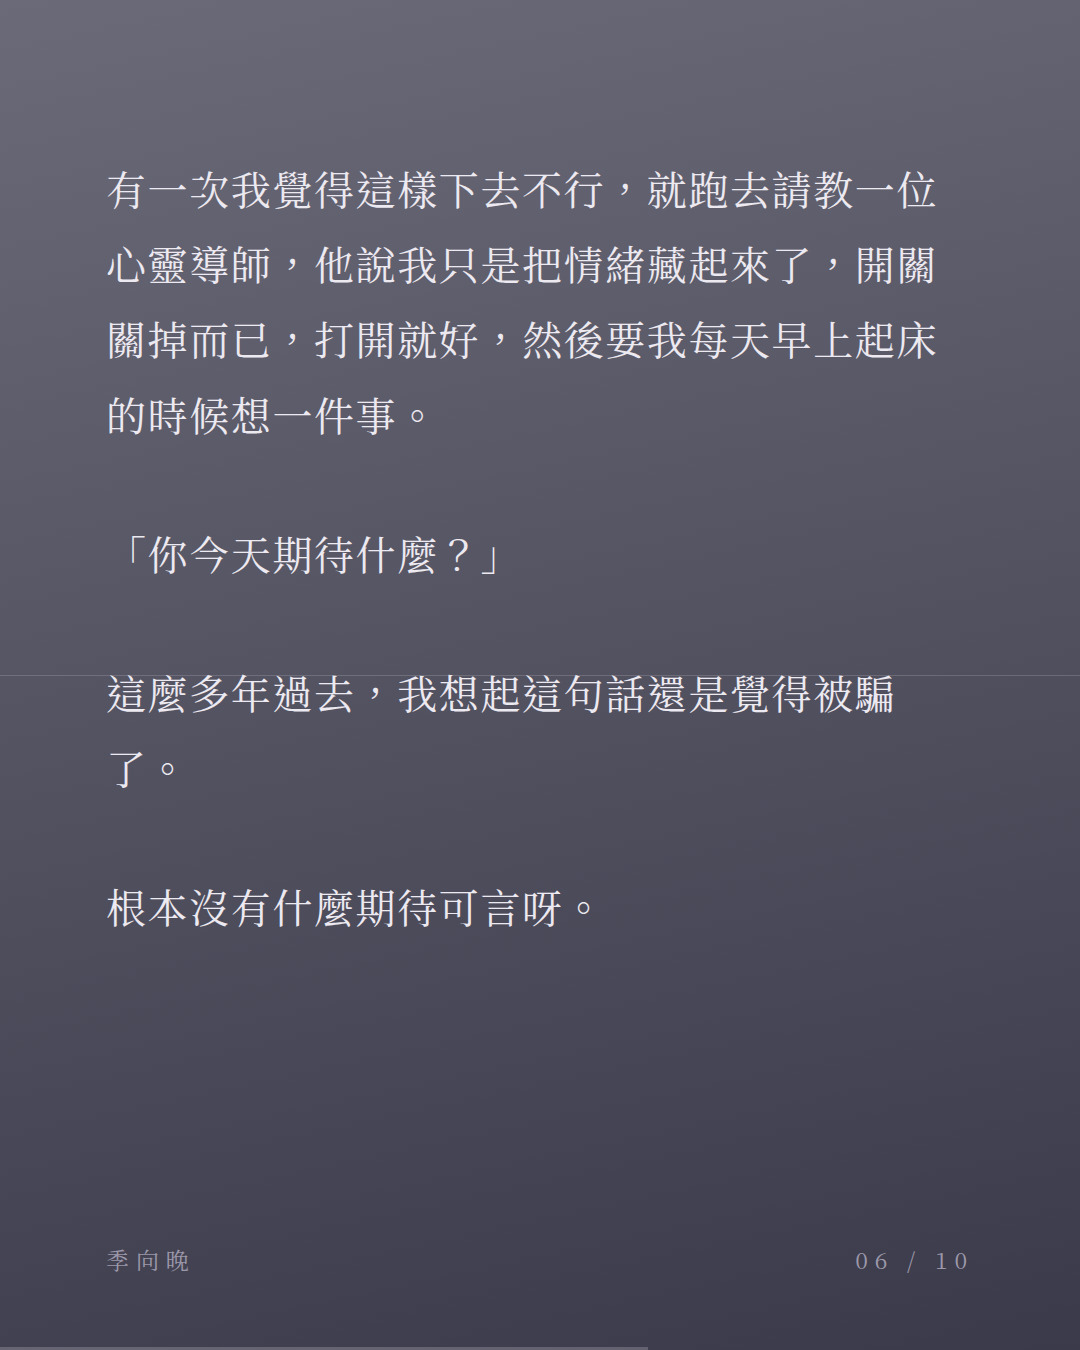
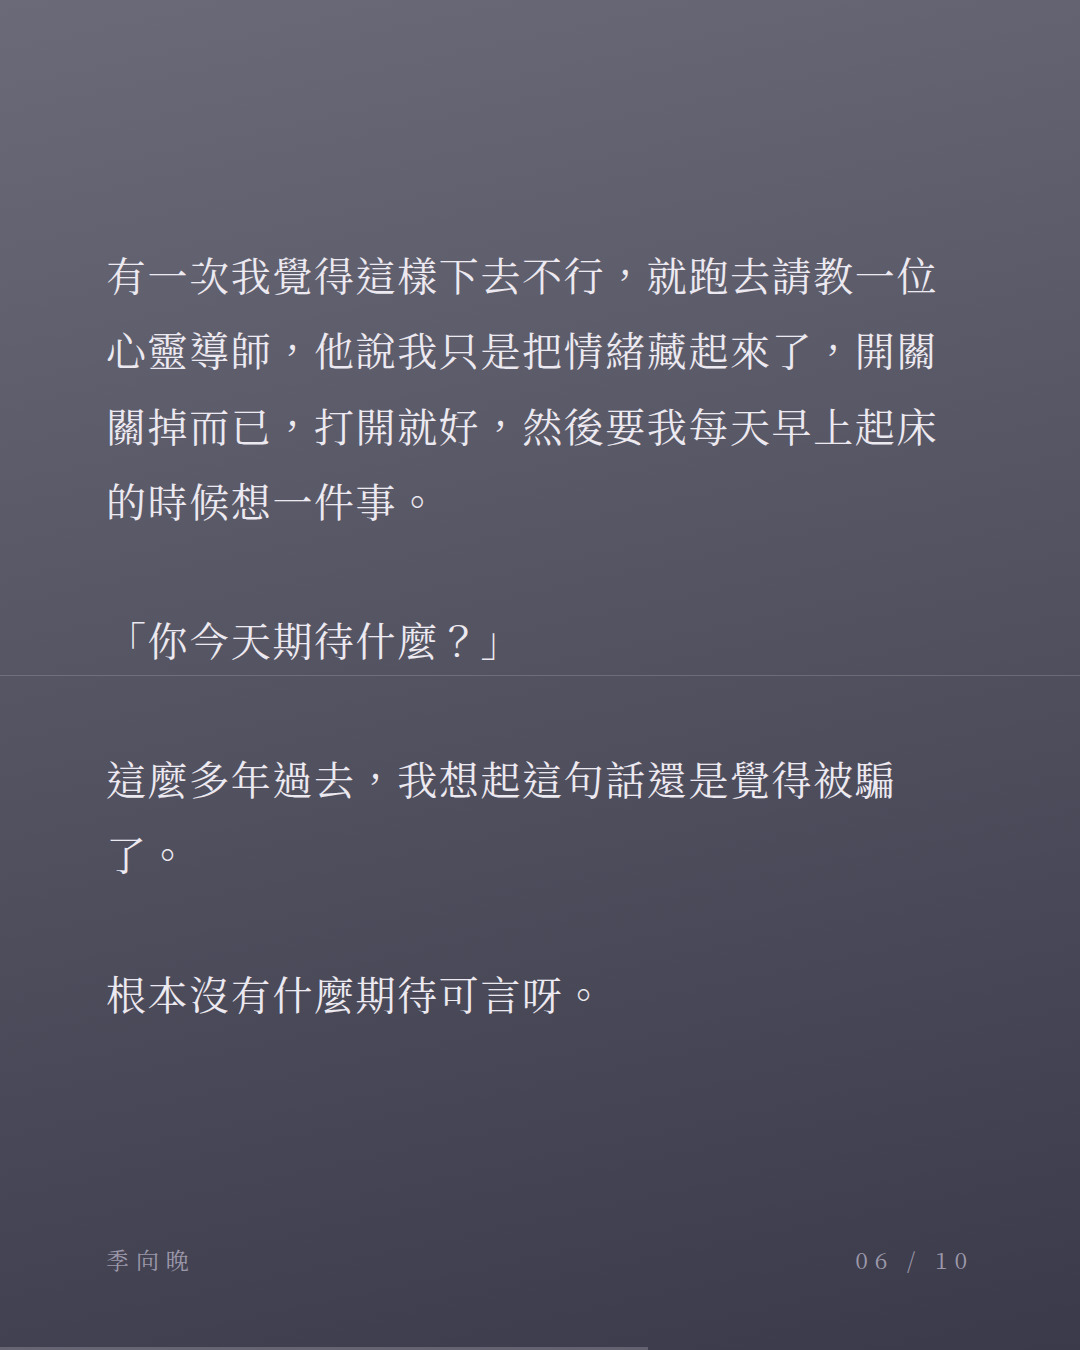
文字一律垂直置中

diff --git a/ops/make_cards.py b/ops/make_cards.py
@@ -106,7 +106,7 @@ def main():
             body="\n".join(para(l) for l in sl.split("\n") if l.strip())
                  + (('<div class="title">' + title + '</div>') if (i == 1 and title) else ""),
             series=S["name"], n=i, tot=total, pct=round(i/total*100, 2),
-            vj="center" if len([l for l in sl.split("\n") if l.strip()]) <= 2 else "flex-start",
+            vj="center",
             cls="cover" if i == 1 else "",
             tag=('<div class="tag">' + S["name"] + '</div>') if i == 1 else "")
         hp = os.path.join(a.out, f"_{i:02d}.html")
